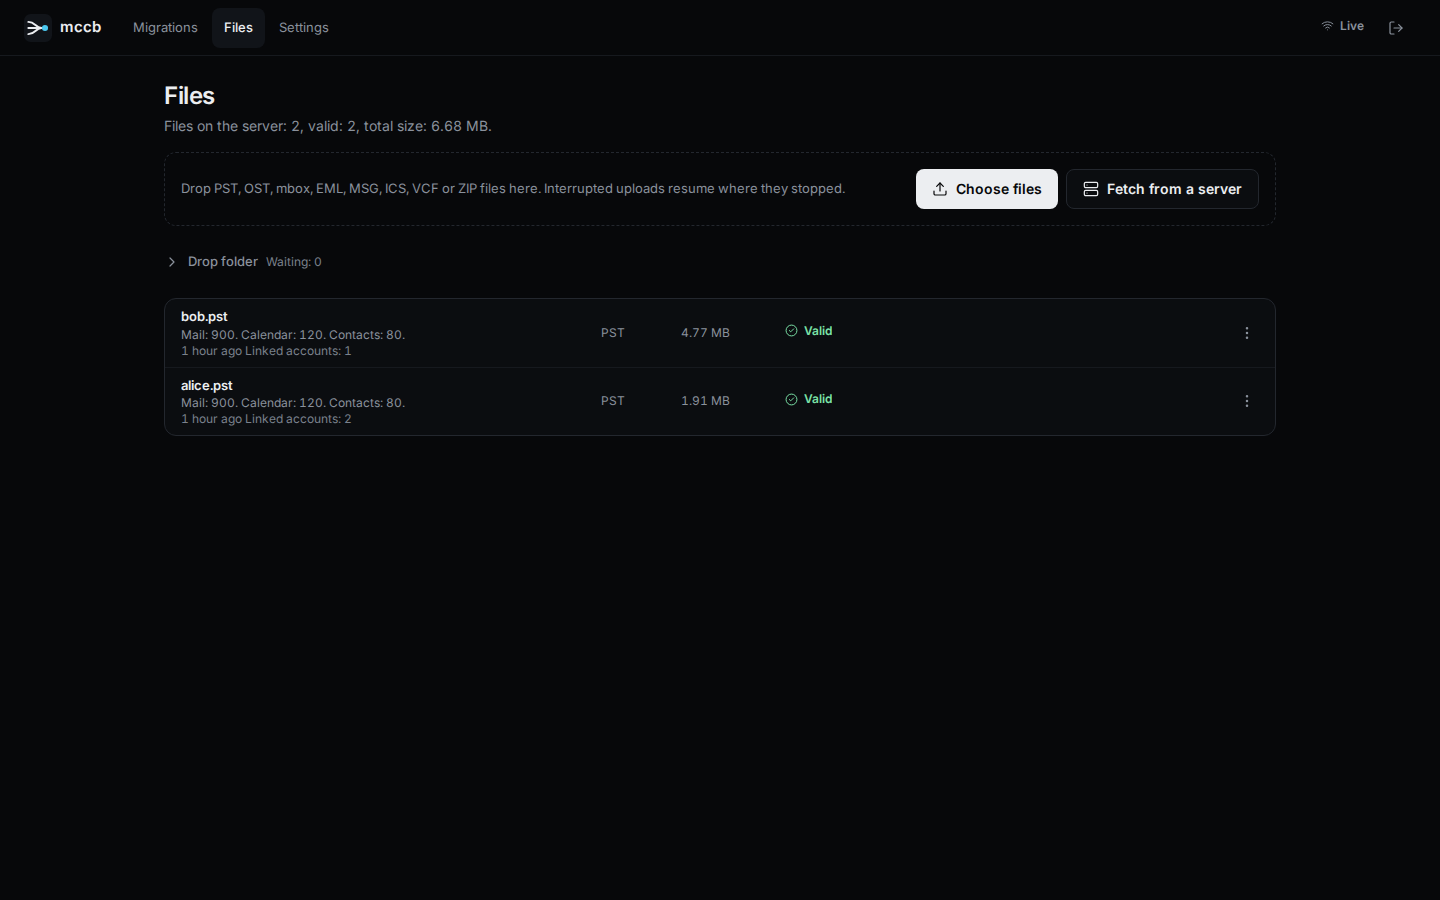
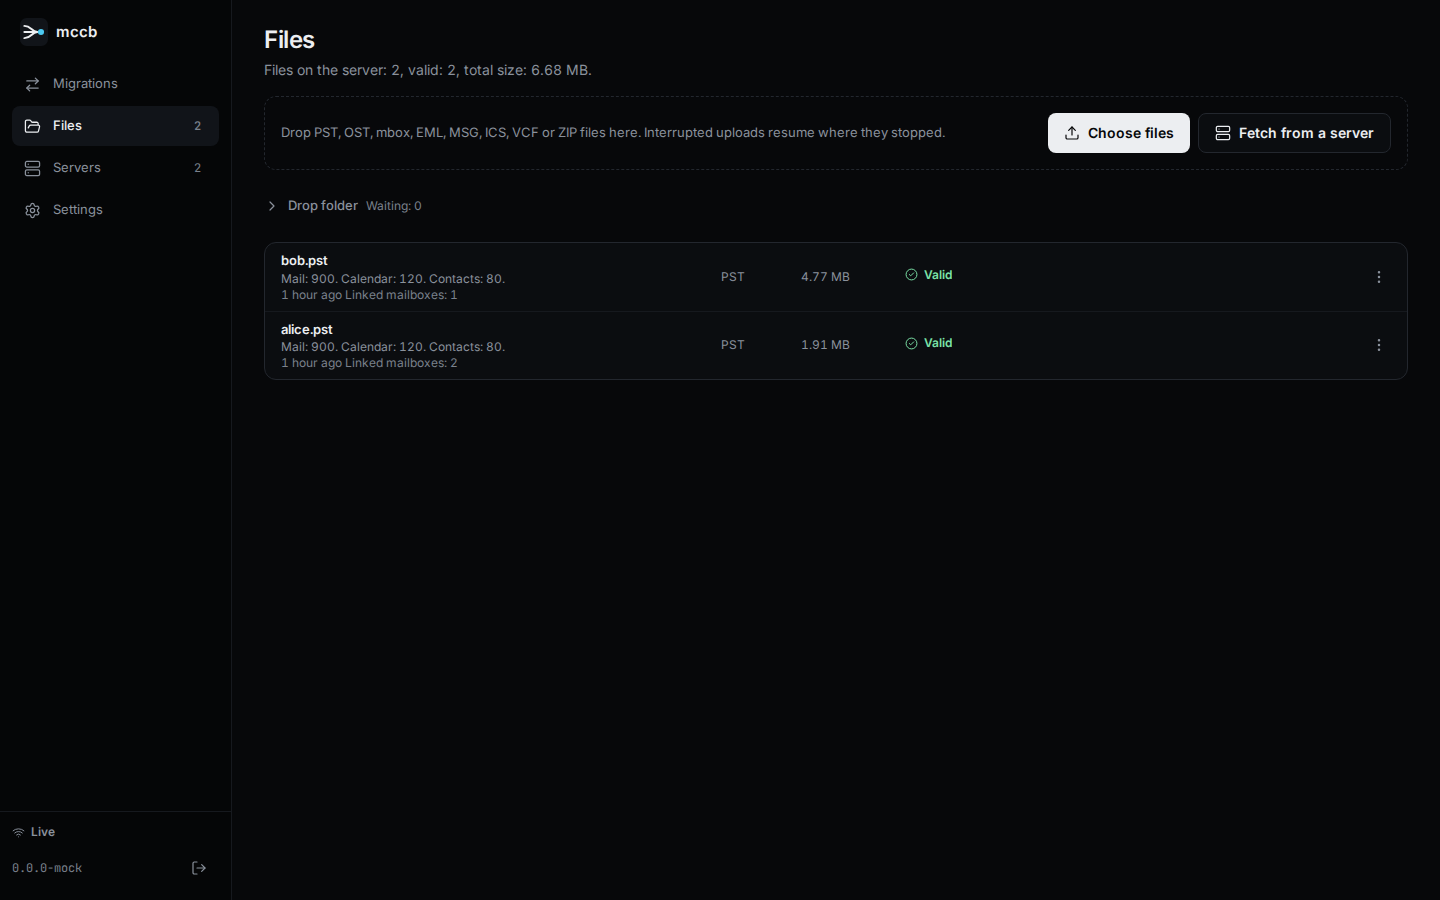
docs: migrate guide and screenshots for the new interface (#22)
The guide follows the interface: Servers first, then New migration with
its From and To, then the start from the mailbox's panel. Server to
server and the final resync have their own part. Page names fixed
(Files, not Uploads) and screenshots retaken.

diff --git a/docs/migrate.md b/docs/migrate.md
@@ -1,36 +1,30 @@
 # Migrate a mailbox
 
-By the end of this page a mailbox, its calendar and its contacts will be imported from a PST file, with a report.
+By the end of this page a mailbox, its calendar and its contacts will be copied from a source to a destination server, with a report.
 
-A PST is the most common source, so the steps below follow it. Other sources (mbox, Maildir, loose messages, a live IMAP, CalDAV, CardDAV, Exchange, Microsoft 365, JMAP or Google server) follow the same steps, except that uploading and linking a file is replaced by choosing the source and the target of the mailbox: see [Connectors](connectors.md) and [Protocols and file formats](protocols.md). Files other than a PST arrive in the same way and are listed with the PSTs.
+The source can be a file (PST, OST, mbox, Maildir in a zip, EML, MSG, ICS, VCF) or a live server (IMAP, Exchange on premises, Microsoft 365, Google Workspace, JMAP, CalDAV, CardDAV). Server to server needs no file at all: IMAP to IMAP, or Microsoft 365 to any IMAP server, follows the same steps. Each source is described in [Protocols and file formats](protocols.md), and how a source and a destination are put together in [Connectors](connectors.md).
 
-1. **Servers.** Create a server: IMAP host and port, security (`ssl`, `starttls`, `none`), TLS
-   verification (can be disabled), optional root folder (`root_folder`, e.g. `PST Import`), CalDAV/CardDAV URL
-   (empty = auto-discovery, see [DAV discovery](dav.md)), number of parallel connections (`workers`). A test button
-   checks the connection.
-2. **Mailboxes.** Add mailboxes one by one or via [CSV](import-accounts.md). The IMAP login is
-   tested when added, then again before the run (`precheck`). For each mailbox you can enable or
-   disable mail, calendar and contacts.
-3. **PST upload.** Drag and drop the file onto the Uploads page. It is split into chunks
-   (32 MiB by default), sent 3 in parallel with automatic retry. Each chunk is verified by
-   SHA-256 server-side. The upload is **resumable**: after a refresh or a network drop, sending
-   the same file again (key `name + size + modification date`) resumes at the missing chunks. Disk
-   space is checked before the upload (507 if there is not enough room).
-4. **Validation / scan.** When the upload finishes, the server checks the size, then the worker verifies the
-   `!BDN` signature and analyzes the whole PST (counting mails, appointments and contacts per folder)
-   in a subprocess. The PST becomes `valid` or `invalid` (with the reason).
-5. **Preview (.zip).** On a `valid` PST, download `GET /api/psts/{id}/preview?limit=20` (limit from 1 to
-   200): a zip of an evenly spread sample of mails (`.eml`), appointments (`.ics`) and contacts (`.vcf`),
-   organized by folder. Open it **before launching** to check accents (subjects, bodies, folder
-   names), attachment names and types, and embedded images. Generated in a
-   subprocess, 120 s maximum; 409 error if the PST is not valid, 500 if libpff crashes.
-6. **Association.** Attach a valid PST to each mailbox. Before the run, a [dry run](planning.md) shows counts, sizes, quota and the folders that will be created, and a [policy](planning.md) can map folders, leave some out and set allowed hours.
-7. **Runs.** Select mailboxes then "Run" (`POST /api/runs`): one job per mailbox, queued.
-   The worker runs `WORKER_CONCURRENCY` at a time. Phases: `precheck` (IMAP, DAV, quota), `mail`,
-   `calendar`, `contacts`, `verify`.
-8. **Pause / resume / stop.** From the job detail: pause, resume, stop, full retry, or
-   "retry errors". Commands take effect between two items.
-9. **Monitoring and report.** Progress per phase, current folder, rate, ETA, live log (SSE),
-   error list. At the end of the job, a JSON report (`GET /api/jobs/{id}/report`, also in
-   `data/reports/`): sent, present, errors, warnings, skipped. A job is `done` if everything
-   passed, `done_with_errors` otherwise (errors, failed verification or unfinished items).
+The interface has four parts, in the sidebar (the top bar on a phone): **Migrations**, **Files**, **Servers** and **Settings**. On an empty install, the Migrations page lists the three steps below with the button of the next one.
+
+1. **Add the destination server (Servers).** Pick the provider (Gmail, Microsoft 365, iCloud, Fastmail, Infomaniak, or another IMAP server): it fills the host, the port and the security, and says what the provider asks for, such as an app password. Adjust if needed: TLS verification (can be disabled), optional root folder (`root_folder`, e.g. `PST Import`), CalDAV and CardDAV URLs (empty = auto-discovery, see [DAV discovery](dav.md)), tuning. The server is checked right after it is saved, and the list shows **Verified**, **Check failed** or **Not verified**. Microsoft refuses plain passwords over IMAP: to write into Microsoft 365, choose Exchange Online as the destination of each mailbox instead (see [Exchange and Microsoft 365](exchange.md)).
+2. **Create a migration (Migrations, New migration).** One form in two parts:
+   - **From**: a file already on the server, a file to send now, or a live server picked from the tiles (Exchange, Microsoft 365, Google Workspace, IMAP, JMAP, CalDAV, CardDAV). A server source is configured in the same form and has its own test button. **Choose later** is allowed: the mailbox then waits for a source.
+   - **To**: the destination server, the address of the mailbox there, its password and an optional login (empty = the address).
+
+   Many mailboxes at once: **Import a CSV file** in the same dialog, see [Import mailboxes](import-accounts.md). The login to the destination is checked right after saving.
+3. **Start it (the mailbox's panel).** Saving opens the mailbox's panel. It reads **From**, **To** (with the result of the login check) and **What to copy** (mail, calendar, contacts), each marked ready, to do or needs attention, and ends with **Start migration**. While it cannot start, a sentence says what is missing (no source yet, no password). For several mailboxes, select them in the list, then use the selection bar (`POST /api/runs`). Before the run, a [dry run](planning.md) shows counts, sizes, quota and the folders that will be created, and a [policy](planning.md) can map folders, leave some out and set allowed hours.
+4. **Follow and control.** One job per mailbox, queued. The worker runs `WORKER_CONCURRENCY` at a time (auto by default). Phases: `precheck` (source, destination login, DAV, quota), `mail`, `calendar`, `contacts`, `verify`. The job panel shows progress per phase, current folder, rate, time left, the live log and the errors, and can pause, resume, stop, retry everything or retry the errors. Commands take effect between two items.
+5. **Read the report.** At the end of the job, a JSON report (`GET /api/jobs/{id}/report`, also in `data/reports/`): sent, present, errors, warnings, skipped. A job is `done` if everything passed, `done_with_errors` otherwise (errors, failed verification or unfinished items). **Run again** later copies only what is new: items already migrated are skipped.
+
+## Files as a source
+
+Files arrive on the **Files** page, from the New migration form, from the drop folder or by a server-side fetch (see [Server-side intake](server-intake.md)).
+
+- **Upload.** Large files are split into chunks (32 MiB by default), sent 3 in parallel with automatic retry, each verified by SHA-256 server-side. The upload is **resumable**: after a refresh or a network drop, sending the same file again (key `name + size + modification date`) resumes at the missing chunks. Disk space is checked first (507 if there is not enough room). Several files queue one at a time by default, in the order of your choice.
+- **Analysis.** When the upload finishes, the worker checks the file (the `!BDN` signature for a PST) and counts mails, appointments and contacts per folder, in a subprocess. The file becomes `valid` or `invalid`, with the reason.
+- **Preview (.zip).** On a `valid` PST, `GET /api/psts/{id}/preview?limit=20` (limit from 1 to 200) gives a zip of an evenly spread sample of mails (`.eml`), appointments (`.ics`) and contacts (`.vcf`), by folder. Open it **before starting** to check accents (subjects, bodies, folder names), attachment names and types, and embedded images. Generated in a subprocess, 120 s maximum; 409 if the PST is not valid, 500 if libpff crashes.
+- **Link.** A valid file is linked to its mailbox in the mailbox's panel (**From**), or by its name when automatic assignment is on.
+
+## Server to server, and a final resync
+
+A live source can be copied while people keep working. When they switch, a **final resync** (`mode: "delta"`, offered in the start dialog once the mailbox already ran) copies only what arrived since, without duplicates. Run it as often as needed. A migration copies in one direction only, and a message deleted at the source after its copy stays at the destination: see [Limits](limits.md).

diff --git a/docs/protocols.md b/docs/protocols.md
@@ -42,7 +42,7 @@ Gmail through IMAP, Google Calendar and Google People (contacts) through their R
 
 ## Files: mbox, Maildir, .eml, .msg, .ics, .vcf, .zip
 
-These arrive like a PST: through the upload page, `POST /api/uploads`, a URL fetch, or the drop folder (see [Server-side intake](server-intake.md)). The analysis recognizes them, the row appears in the PST list with `scan.format: "files"`, and a mailbox that links it reads it with the `files` connector. A PST or OST is analysed as before and is never read by this connector.
+These arrive like a PST: through the Files page, `POST /api/uploads`, a URL fetch, or the drop folder (see [Server-side intake](server-intake.md)). The analysis recognizes them, the row appears in the PST list with `scan.format: "files"`, and a mailbox that links it reads it with the `files` connector. A PST or OST is analysed as before and is never read by this connector.
 
 | What you have | How to send it |
 |---|---|

diff --git a/README.md b/README.md
@@ -36,7 +36,7 @@ docker compose logs web | grep -A2 "Admin password"
 ```
 
 1. Open `http://<host>:22362` and sign in with the printed password (shown once).
-2. Add a server, then mailboxes. Give each a source (a PST or another file, or a live server) and run.
+2. On **Servers**, add the destination server. Then **New migration**: pick the source (a PST or another file, or a live server such as IMAP or Microsoft 365) and the mailbox it goes to, and start it from its panel.
 3. Put it behind a reverse proxy with HTTPS: port 22362 speaks plain HTTP.
 
 Back up `./data`, including `secret.key`: without it the stored mailbox passwords cannot be decrypted. Details: [install](docs/install.md), [backup](docs/backup.md), [upgrading](docs/upgrading.md).

diff --git a/docs/troubleshooting.md b/docs/troubleshooting.md
@@ -24,7 +24,7 @@ The proxy must not buffer request bodies, must allow bodies of at least `UPLOAD_
 
 ## A PST is `invalid`
 
-The reason is shown on the Uploads page. A file without the `!BDN` signature is refused, and a crash of the native library during the scan gives "libpff crash during analysis". Encrypted or password-protected PSTs have no dedicated handling.
+The reason is shown on the Files page. A file without the `!BDN` signature is refused, and a crash of the native library during the scan gives "libpff crash during analysis". Encrypted or password-protected PSTs have no dedicated handling.
 
 ## A job fails with "The subprocess crashed N times"
 

diff --git a/docs/import-accounts.md b/docs/import-accounts.md
@@ -2,7 +2,7 @@
 
 By the end of this page you will have added many mailboxes to a server in one step.
 
-Import through the UI (Migrations page) or `POST /api/accounts/import-csv` (multipart: `file` +
+Import through the UI (**New migration**, then **Import a CSV file**) or `POST /api/accounts/import-csv` (multipart: `file` +
 `server_id`). A template can be downloaded via `GET /api/accounts/csv-template`.
 
 | column | required | content |
